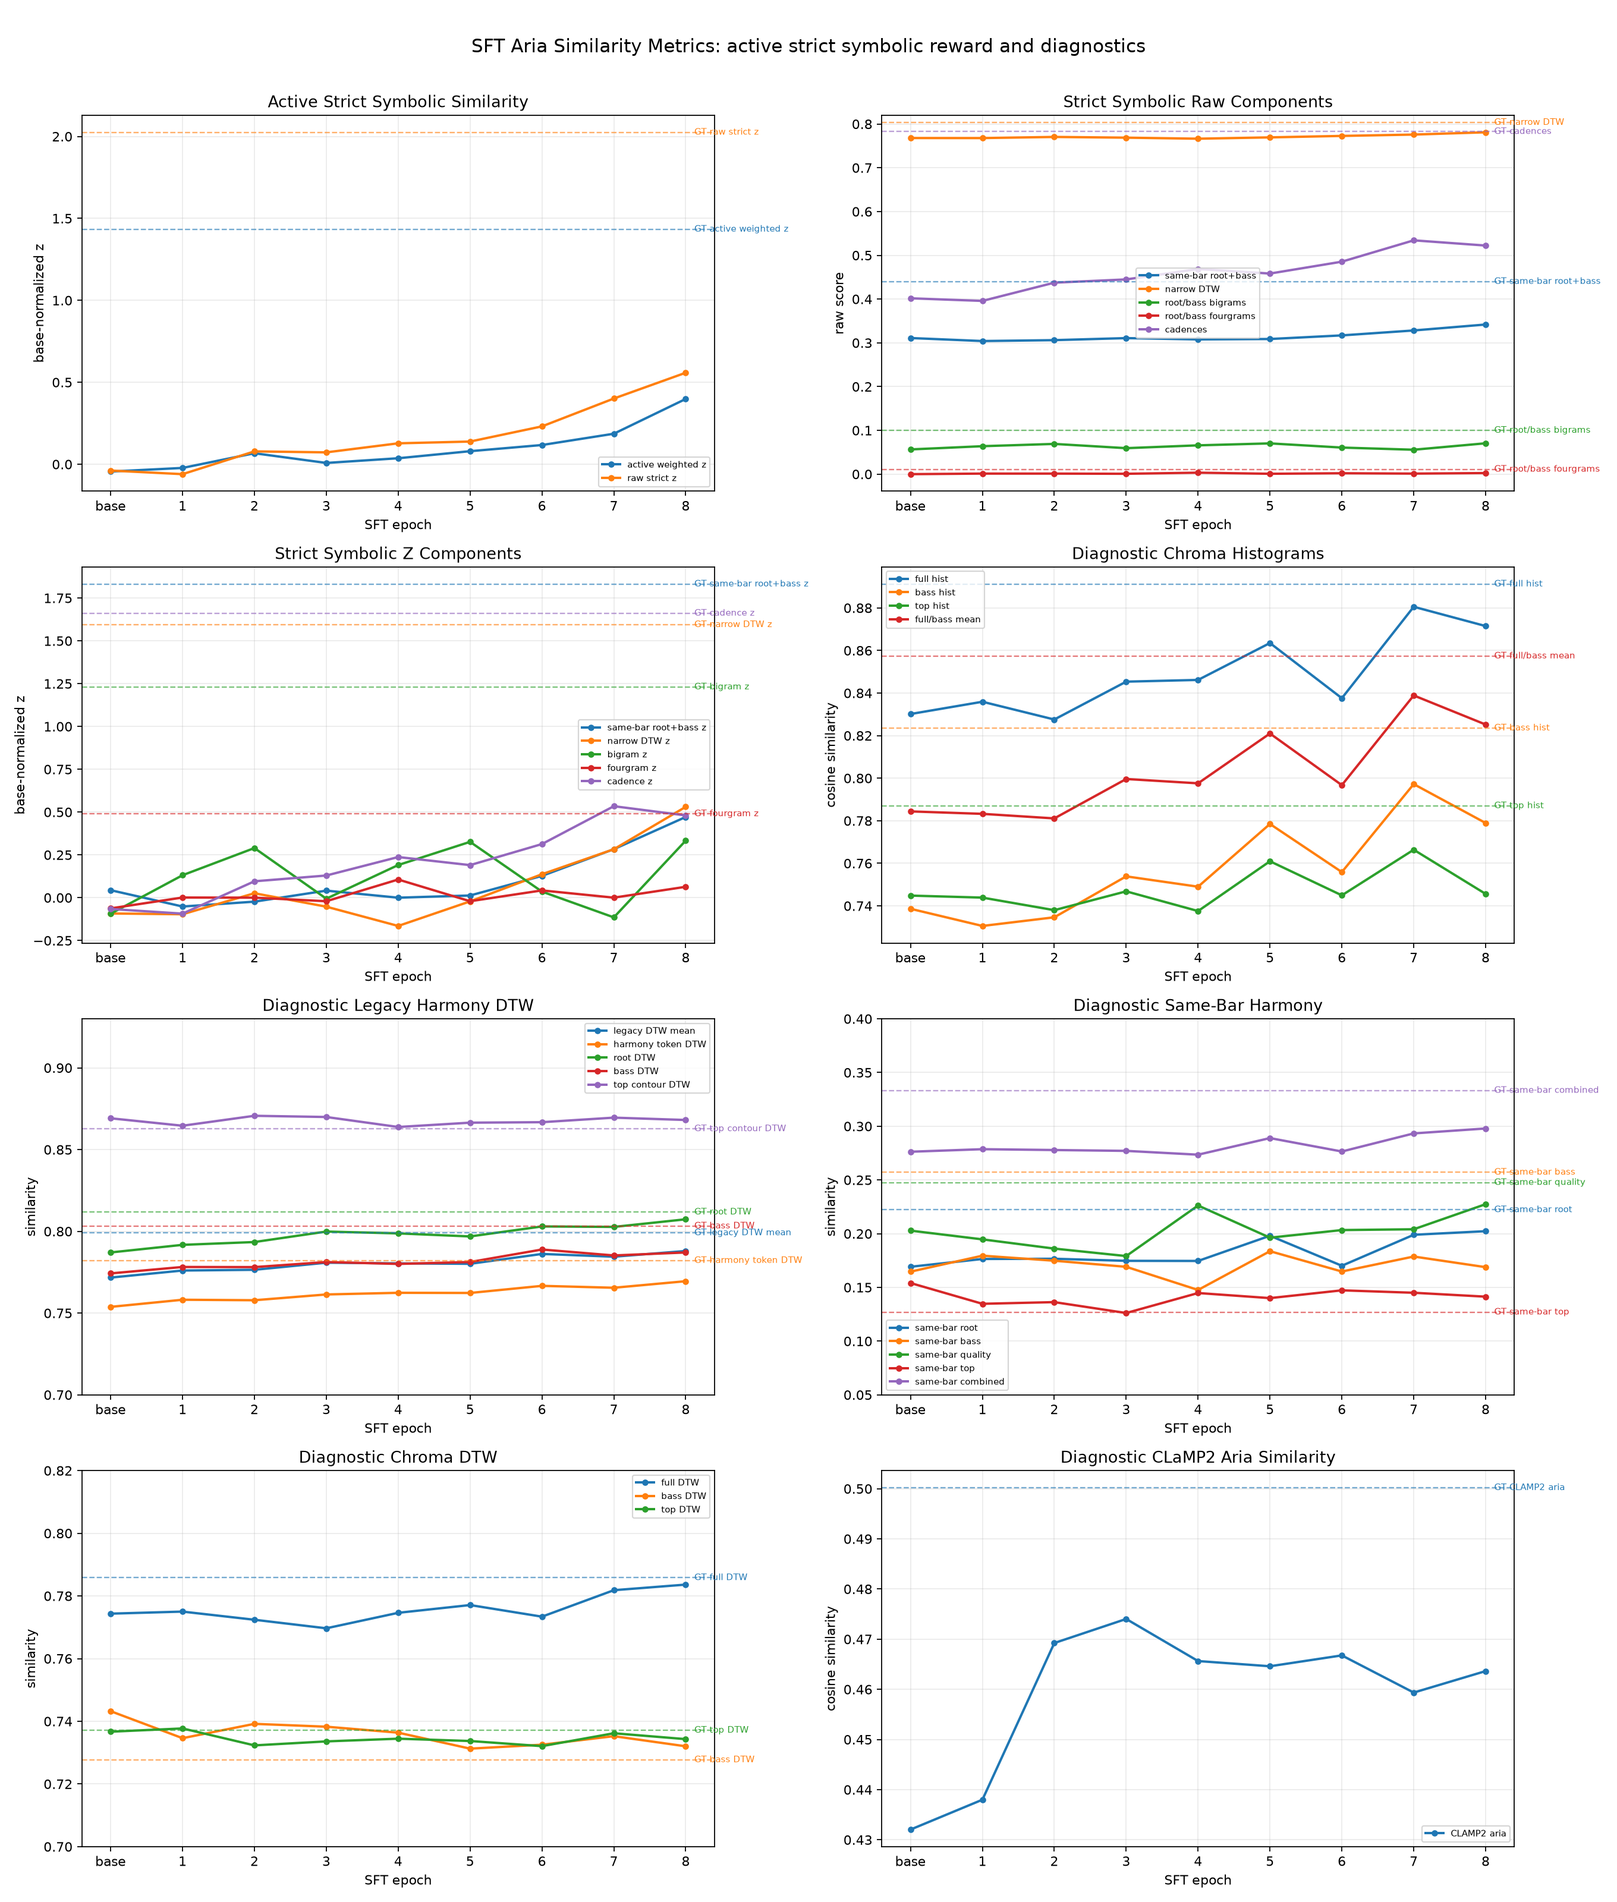
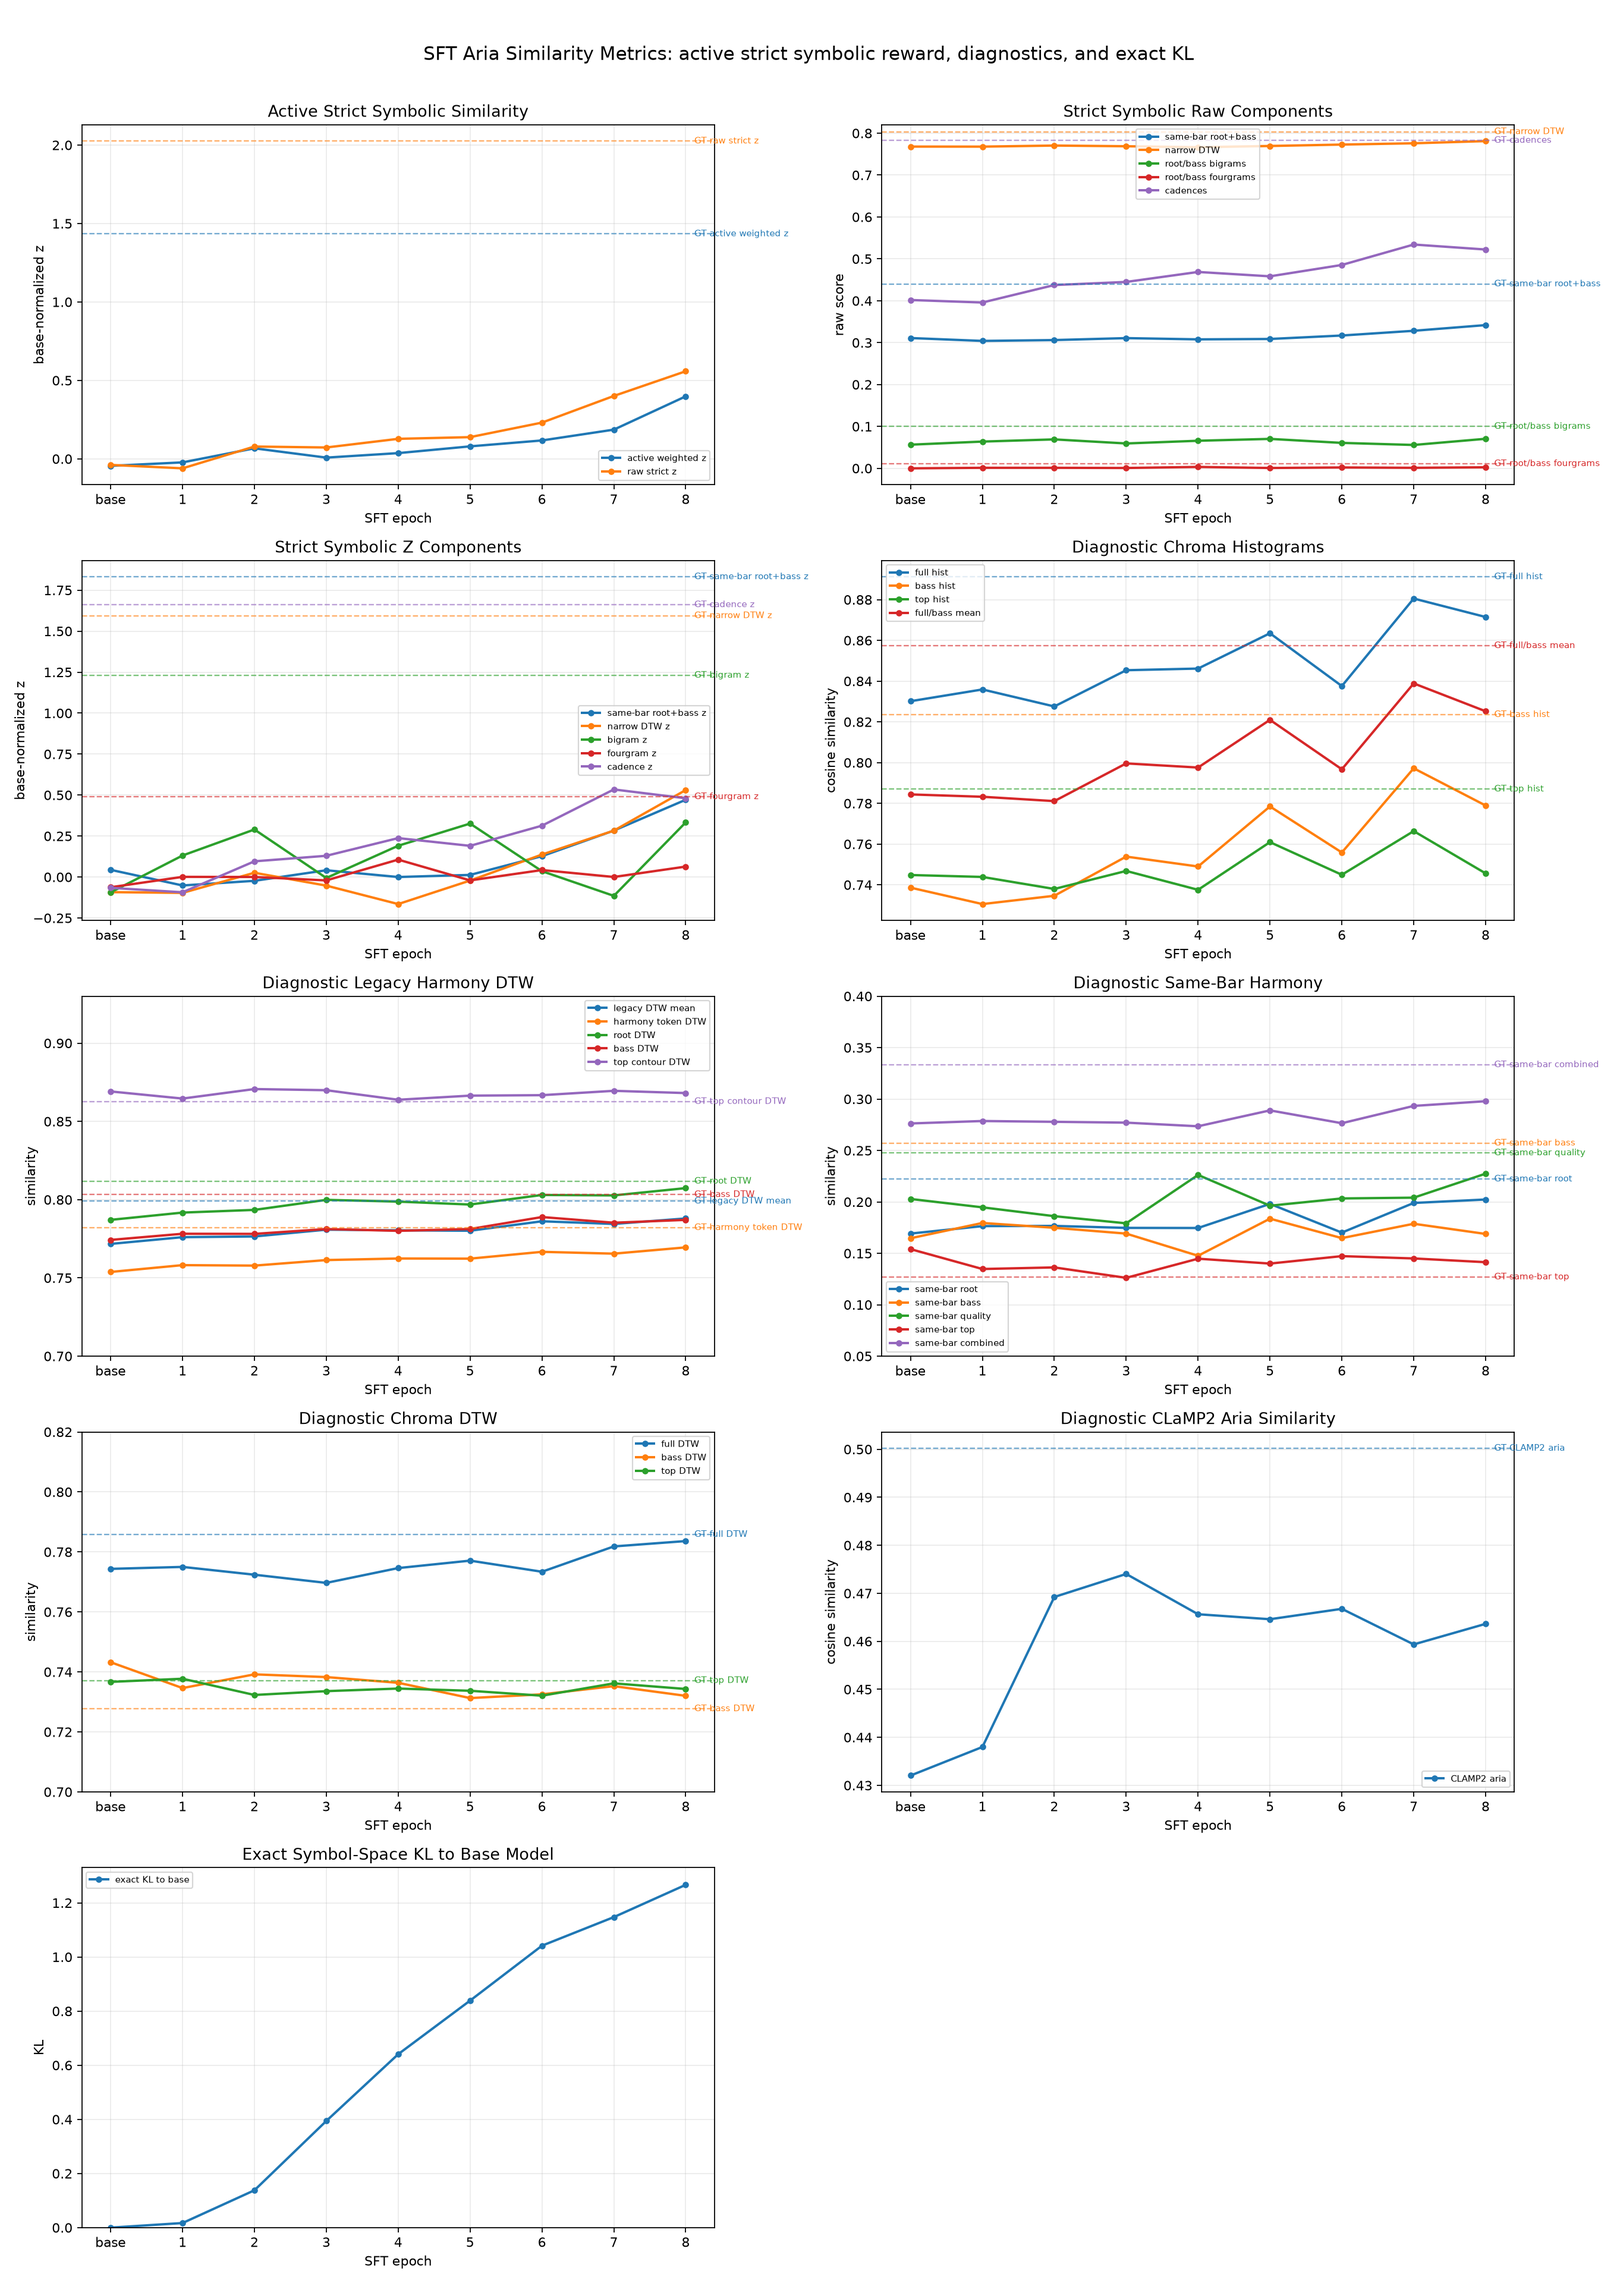
Add KL to SFT similarity dashboard

diff --git a/README.md b/README.md
@@ -99,13 +99,13 @@ treated as a similar variation, I also compute them on the real Goldberg
 variations. The useful metrics are the ones where the ground-truth variations
 are clearly harder to match than the base model and the first SFT versions.
 
-Values are reported as `epoch 0 / epoch 1 / epoch 8 / GT`.
+Values are reported as `baseline / epoch 1 / epoch 8 / Bach GT`.
 
 | Similarity signal | What it compares | Use | Values |
 |---|---|---|---:|
 | CLaMP2 whole-piece embedding (`clamp2_aria`) | A learned semantic similarity score between the whole generated piece and the Aria. This is useful as a broad diagnostic, but it is not the main reward because it is less explicit about harmony and form. | Whole-sequence diagnostic, logged only | `0.432 / 0.438 / 0.464 / 0.500` |
 | Active symbolic Aria score (`aria_strict_symbolic_component_global_base_z`) | The main similarity reward. It combines the local checks below and standardizes them against base-model samples, so positive values mean the piece is more Aria-like than the base model usually is. | End-of-sequence active reward | `-0.044 / -0.022 / 0.398 / 1.434` |
-| Same-bar harmony (`strict_aligned_root_bass`) | Compares each generated bar with the same-position Aria bar, using the inferred chord root and bass note. This rewards matching the local harmonic skeleton without requiring the exact surface notes. | Active component | `0.311 / 0.304 / 0.342 / 0.440` |
+| Same-bar harmony (`strict_aligned_root_bass`) | Compares each generated bar with the same-position Aria bar. All voices in the bar are collapsed to infer the chord root, and the bass is taken from the lowest note; the other voices affect the inferred harmony but are not scored as separate voices. This rewards matching the local harmonic skeleton without requiring the exact surface notes. | Active component | `0.311 / 0.304 / 0.342 / 0.440` |
 | Flexible harmonic path (`strict_dtw_combined_narrow`) | Aligns the generated bar sequence to the Aria with a narrow DTW window, so small local shifts are allowed but the piece still has to follow roughly the same harmonic route. | Active component | `0.768 / 0.768 / 0.781 / 0.804` |
 | Repeated harmonic patterns, 2-bar / 4-bar (`strict_root_bass_*gram_weighted_jaccard`) | Looks for short root/bass progressions from the Aria inside the generated piece. The 2-bar version is looser; the 4-bar version is stricter and therefore much smaller. | Active component | `0.056 / 0.064 / 0.071 / 0.100` for 2-bar; `0.000 / 0.001 / 0.003 / 0.011` for 4-bar |
 | Phrase endings (`strict_cadence_root_bass`) | Compares root and bass at cadence positions, where matching the Aria's harmonic arrivals is especially important. | Active component | `0.402 / 0.396 / 0.522 / 0.783` |
@@ -117,12 +117,15 @@ Values are reported as `epoch 0 / epoch 1 / epoch 8 / GT`.
 
 Even with this simple SFT setup, the generated samples move closer to the Aria
 on several of these signals, but the picture is mixed across the full
-similarity bundle. The active similarity reward is the strict symbolic
-Aria-similarity aggregate normalized against base-model samples. I keep CLaMP2,
+similarity bundle, and later improvements sometimes come at the expense of a
+very high KL distance from the base model. I compute this KL exactly over the
+symbol distribution rather than with a sampled approximation. The active
+similarity reward is the strict symbolic Aria-similarity aggregate normalized
+against base-model samples. I keep CLaMP2,
 chroma histogram and chroma DTW, the older broader harmony DTW and same-bar
 alignment metrics, top-voice contour DTW, and density DTW as diagnostics. Here
-epoch 0 is the base NotaGen-large model prompted with the same metadata/header
-prompt, without the Aria in the prompt.
+the base model is NotaGen-large prompted with the same metadata/header prompt,
+without the Aria in the prompt.
 
 ![SFT similarity metrics across epochs](docs/assets/sft_similarity_breakdown_all_metrics_with_gt.png)
 
